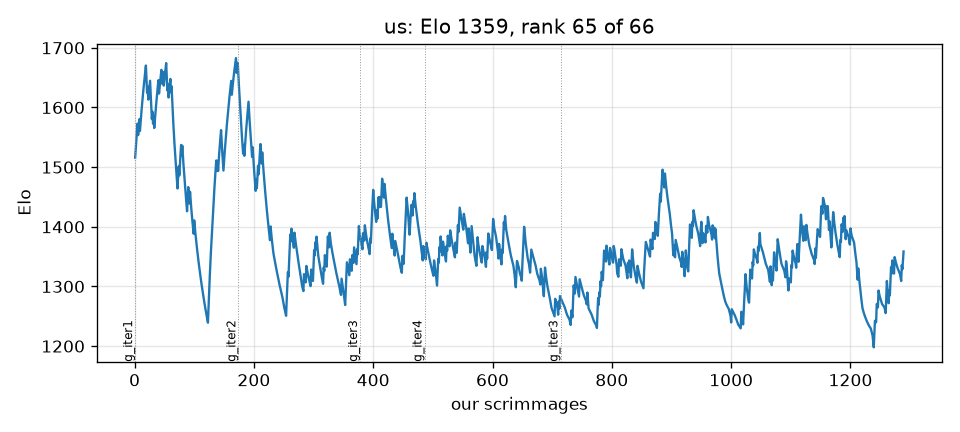
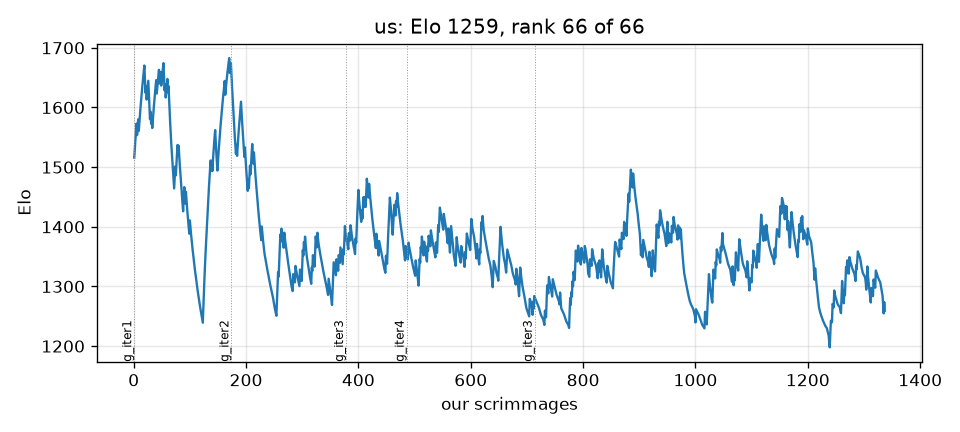
Block 27 logged
Claude-Session: https://claude.ai/code/session_01CTUHPRaZ9DbYUkpWKYf2Y2

diff --git a/BENCHMARK.md b/BENCHMARK.md
@@ -61,7 +61,7 @@ every recorded block; the tier is the most recent build's record against that op
 | `EmaPajic.Mark3` | EmaPajic_Battlecode-2020 (c060a22) | - | - | untested |  |
 | `EmaPajic.Mark4` | EmaPajic_Battlecode-2020 (c060a22) | - | - | untested |  |
 | `EmaPajic.Mark5` | EmaPajic_Battlecode-2020 (c060a22) | - | - | untested |  |
-| `EmaPajic.Qualifications` | EmaPajic_Battlecode-2020 (c060a22) | 0 | 12 | locked | 20 0 20 0 |
+| `EmaPajic.Qualifications` | EmaPajic_Battlecode-2020 (c060a22) | 0 | 12 | locked | 20 0 18 0 |
 | `EmaPajic.SeedingBot` | EmaPajic_Battlecode-2020 (c060a22) | - | - | untested |  |
 | `GabrielDWu.basicbot` | GabrielDWu_blezers-battlecode2020 (c0283f8) | - | - | untested |  |
 | `GabrielDWu.blezerbot` | GabrielDWu_blezers-battlecode2020 (c0283f8) | - | - | untested |  |
@@ -174,7 +174,7 @@ every recorded block; the tier is the most recent build's record against that op
 | `benzyx.tortuga` | benzyx_bc20-waterloo (05df2e7) | - | - | untested |  |
 | `charboltron.master_player` | charboltron_pdx_battlecode_2020_team_11 (f78f1e3) | - | - | untested |  |
 | `charboltron.team11newbot` | charboltron_pdx_battlecode_2020_team_11 (f78f1e3) | 100 | 1 | peer(>90 once) | 100 |
-| `cormackikkert.whyPermutator` | cormackikkert_battlecode2020 (4d230c4) | 40 | 15 | target | 25 17 35 40 |
+| `cormackikkert.whyPermutator` | cormackikkert_battlecode2020 (4d230c4) | 40 | 15 | target | 25 17 33 40 |
 | `cormackikkert.whyPermutatorOld` | cormackikkert_battlecode2020 (4d230c4) | - | - | untested |  |
 | `cosimogonnelli.Team3player` | cosimogonnelli_CS454-554-SE (d7dc657) | 80 | 5 | peer | 80 |
 | `cs454-w20-team3.oldbot` | cs454-w20-team3_team3-bot (502c334) | - | - | untested |  |
@@ -202,7 +202,7 @@ every recorded block; the tier is the most recent build's record against that op
 | `kylittle.deliriumv1` | kylittle_DeliriumBattlecode (17a94dd) | - | - | untested |  |
 | `kylittle.qualsbot` | kylittle_DeliriumBattlecode (17a94dd) | - | - | untested |  |
 | `kylittle.qualsbot2` | kylittle_DeliriumBattlecode (17a94dd) | 100 | 1 | peer(>90 once) | 100 |
-| `laurenschneider.pdx_team_one` | laurenschneider_battlecode20-PDXTeamOne (2965376) | 14 | 14 | locked | 0 50 40 14 |
+| `laurenschneider.pdx_team_one` | laurenschneider_battlecode20-PDXTeamOne (2965376) | 14 | 14 | locked | 0 50 39 14 |
 | `lfchain.bigBudsBot` | lfchain_Battlecode2020 (b026153) | 100 | 1 | peer(>90 once) | 100 |
 | `lfchain.fBot` | lfchain_Battlecode2020 (b026153) | - | - | untested |  |
 | `lfchain.jBot` | lfchain_Battlecode2020 (b026153) | - | - | untested |  |
@@ -279,10 +279,10 @@ every recorded block; the tier is the most recent build's record against that op
 | `poortho.rush` | poortho_battlecode-2020 (ebbd61e) | - | - | untested |  |
 | `poortho.rush_bot` | poortho_battlecode-2020 (ebbd61e) | - | - | untested |  |
 | `poortho.stable_miner1` | poortho_battlecode-2020 (ebbd61e) | - | - | untested |  |
-| `poortho.stable_seeding_bot` | poortho_battlecode-2020 (ebbd61e) | 31 | 16 | target | 0 17 17 31 |
+| `poortho.stable_seeding_bot` | poortho_battlecode-2020 (ebbd61e) | 31 | 16 | target | 0 17 16 31 |
 | `ps789.dennisTestPlayer` | ps789_AZBattlecode (f1d54ab) | - | - | untested |  |
 | `ps789.phillipTestPlayer` | ps789_AZBattlecode (f1d54ab) | - | - | untested |  |
-| `ronniesong0809.finalbota` | ronniesong0809_battlecode20-RADS (1cee065) | 7 | 15 | locked | 0 18 14 7 |
+| `ronniesong0809.finalbota` | ronniesong0809_battlecode20-RADS (1cee065) | 7 | 15 | locked | 0 18 15 7 |
 | `ronniesong0809.team4enemy` | ronniesong0809_battlecode20-RADS (1cee065) | - | - | untested |  |
 | `ronniesong0809.team4player` | ronniesong0809_battlecode20-RADS (1cee065) | - | - | untested |  |
 | `rsandzimier.PlayerAlpha` | rsandzimier_battlecode2020 (8d856c3) | - | - | untested |  |
@@ -292,7 +292,7 @@ every recorded block; the tier is the most recent build's record against that op
 | `rzhan11.kryptonite` | rzhan11_Battlecode2020 (3cc4b50) | - | - | untested |  |
 | `rzhan11.landscaper_rush_bot` | rzhan11_Battlecode2020 (3cc4b50) | - | - | untested |  |
 | `rzhan11.orig_rush_bot` | rzhan11_Battlecode2020 (3cc4b50) | - | - | untested |  |
-| `rzhan11.quals_bot` | rzhan11_Battlecode2020 (3cc4b50) | 12 | 16 | locked | 0 17 5 12 |
+| `rzhan11.quals_bot` | rzhan11_Battlecode2020 (3cc4b50) | 12 | 16 | locked | 0 17 4 12 |
 | `rzhan11.rush_bot` | rzhan11_Battlecode2020 (3cc4b50) | - | - | untested |  |
 | `rzhan11.seeding` | rzhan11_Battlecode2020 (3cc4b50) | - | - | untested |  |
 | `rzhan11.sprint` | rzhan11_Battlecode2020 (3cc4b50) | - | - | untested |  |
@@ -325,9 +325,9 @@ every recorded block; the tier is the most recent build's record against that op
 | `willBoyd8.droideka` | willBoyd8_BattleDroid (4b1d4ad) | - | - | untested |  |
 | `willBoyd8.empire` | willBoyd8_BattleDroid (4b1d4ad) | - | - | untested |  |
 | `willBoyd8.mouse` | willBoyd8_BattleDroid (4b1d4ad) | - | - | untested |  |
-| `winkelmantanner.tannerplayer` | winkelmantanner_battlecode2020_the-levee-builders (7f49f11) | 23 | 13 | target | 0 25 19 23 |
+| `winkelmantanner.tannerplayer` | winkelmantanner_battlecode2020_the-levee-builders (7f49f11) | 23 | 13 | target | 0 25 17 23 |
 | `wpine215.stardustv1` | wpine215_battlecode (d570d57) | - | - | untested |  |
-| `wpine215.stardustv2` | wpine215_battlecode (d570d57) | 65 | 17 | peer | 0 30 49 65 |
+| `wpine215.stardustv2` | wpine215_battlecode (d570d57) | 65 | 17 | peer | 0 30 47 65 |
 | `yaonam.Robot_1` | yaonam_battlecode2020 (bb363f5) | 62 | 8 | peer | 62 |
 
 285 bot packages from 68 repositories.

diff --git a/progress/ELO.md b/progress/ELO.md
@@ -1,20 +1,20 @@
 # Elo ladder
 
-1289 scrimmages (ours only); K=32 from 1500; our team is **us**: rank 65 of 66 rated bots, Elo 1359, 1289 games; 0 bots not yet met.
+1337 scrimmages (ours only); K=32 from 1500; our team is **us**: rank 66 of 66 rated bots, Elo 1259, 1337 games; 0 bots not yet met.
 
 | rank | bot | Elo | games | W-L (theirs) |
 |---|---|---|---|---|
-| 1 | awesomelemonade.citricsky | 1802 | 82 | 80-2 |
-| 2 | uvafan.v14_final_bot | 1769 | 74 | 72-2 |
-| 3 | AngusRitossa.newbot | 1763 | 79 | 75-4 |
-| 4 | rzhan11.quals_bot | 1715 | 74 | 68-6 |
-| 5 | ronniesong0809.finalbota | 1680 | 81 | 71-10 |
-| 6 | IvanGeffner.finalbota | 1665 | 82 | 72-10 |
-| 7 | poortho.stable_seeding_bot | 1613 | 73 | 59-14 |
-| 8 | mvpatel2000.qual | 1603 | 77 | 63-14 |
-| 9 | EmaPajic.Qualifications | 1597 | 75 | 65-10 |
-| 10 | winkelmantanner.tannerplayer | 1566 | 71 | 57-14 |
-| 11 | battlecode20-team4.finalbota | 1521 | 79 | 61-18 |
+| 1 | awesomelemonade.citricsky | 1809 | 86 | 84-2 |
+| 2 | uvafan.v14_final_bot | 1777 | 78 | 76-2 |
+| 3 | AngusRitossa.newbot | 1774 | 83 | 79-4 |
+| 4 | rzhan11.quals_bot | 1727 | 78 | 72-6 |
+| 5 | IvanGeffner.finalbota | 1673 | 84 | 74-10 |
+| 6 | ronniesong0809.finalbota | 1651 | 82 | 71-11 |
+| 7 | poortho.stable_seeding_bot | 1627 | 76 | 62-14 |
+| 8 | EmaPajic.Qualifications | 1615 | 78 | 68-10 |
+| 9 | mvpatel2000.qual | 1588 | 81 | 66-15 |
+| 10 | winkelmantanner.tannerplayer | 1587 | 75 | 61-14 |
+| 11 | battlecode20-team4.finalbota | 1529 | 80 | 62-18 |
 | 12 | ovimura.welovesoup | 1491 | 1 | 0-1 |
 | 13 | TeamSerpentine.eendagsvliegjes | 1491 | 1 | 0-1 |
 | 14 | orionquick.aldebaranplayer | 1491 | 1 | 0-1 |
@@ -51,14 +51,14 @@
 | 45 | charboltron.team11newbot | 1488 | 1 | 0-1 |
 | 46 | djkeyes.addingComm | 1488 | 1 | 0-1 |
 | 47 | ARognes.FinalSubmission | 1487 | 5 | 2-3 |
-| 48 | cosimogonnelli.Team3player | 1480 | 5 | 1-4 |
-| 49 | yaonam.Robot_1 | 1474 | 8 | 3-5 |
-| 50 | VinayaBhat.team10pdx | 1472 | 7 | 2-5 |
-| 51 | Tim-gubski.AngryWaffleMaker | 1463 | 7 | 2-5 |
-| 52 | cormackikkert.whyPermutator | 1457 | 74 | 50-24 |
+| 48 | cormackikkert.whyPermutator | 1485 | 77 | 53-24 |
+| 49 | cosimogonnelli.Team3player | 1480 | 5 | 1-4 |
+| 50 | yaonam.Robot_1 | 1474 | 8 | 3-5 |
+| 51 | VinayaBhat.team10pdx | 1472 | 7 | 2-5 |
+| 52 | Tim-gubski.AngryWaffleMaker | 1463 | 7 | 2-5 |
 | 53 | denver-blake.sprint | 1454 | 5 | 0-5 |
-| 54 | laurenschneider.pdx_team_one | 1450 | 78 | 51-27 |
-| 55 | KyleHassold.sprintbot | 1448 | 5 | 0-5 |
+| 54 | KyleHassold.sprintbot | 1448 | 5 | 0-5 |
+| 55 | laurenschneider.pdx_team_one | 1444 | 81 | 53-28 |
 | 56 | J-J-Chen.player | 1441 | 5 | 0-5 |
 | 57 | AllenWang314.bot1 | 1435 | 5 | 0-5 |
 | 58 | GabrielDWu.buildawall2 | 1432 | 5 | 0-5 |
@@ -67,6 +67,6 @@
 | 61 | 9mAhmad.lostincoordinates | 1412 | 5 | 0-5 |
 | 62 | 9mAhmad.MahinBot | 1398 | 5 | 0-5 |
 | 63 | mhahn2003.nonrush | 1387 | 21 | 9-12 |
-| 64 | benzyx.seeding | 1377 | 70 | 39-31 |
-| 65 | **us** | 1359 | 1289 | 340-949 |
-| 66 | wpine215.stardustv2 | 1292 | 76 | 40-36 |
+| 64 | benzyx.seeding | 1367 | 74 | 41-33 |
+| 65 | wpine215.stardustv2 | 1317 | 80 | 43-37 |
+| 66 | **us** | 1259 | 1337 | 346-991 |

diff --git a/TRAINING_LOG.md b/TRAINING_LOG.md
@@ -883,6 +883,10 @@ tier-3 slot, so nobody came back for the ring; the empty tiles were fed only by 
 equalising and set the ring's minimum (897 vs 1747). Fix: a newborn takes the nearest free ring
 tile it can still climb before consulting its slot. Sweep `plat12` after block 27.
 
+## Block 27 -- g_iter3 against the challenge pool (run block27, 2026-09-24)
+
+48 games: **6/48 (12.5%)**; cumulative for g_iter3 156/732 (21.3%).
+
 ## Block 26 -- g_iter3 against the challenge pool (run block26, 2026-09-24)
 
 48 games: **12/48 (25%)**; cumulative for g_iter3 150/684 (21.9%).
